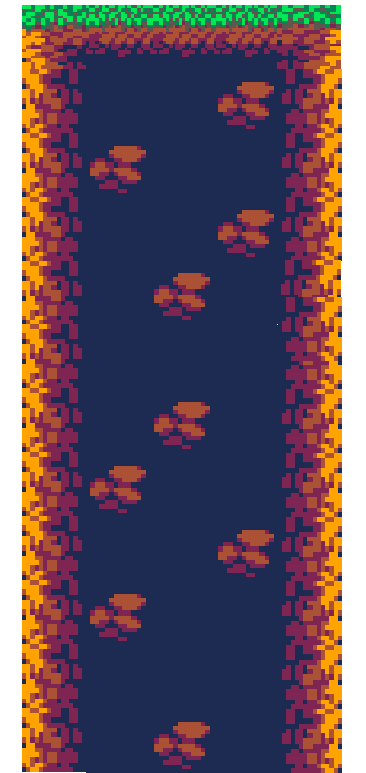
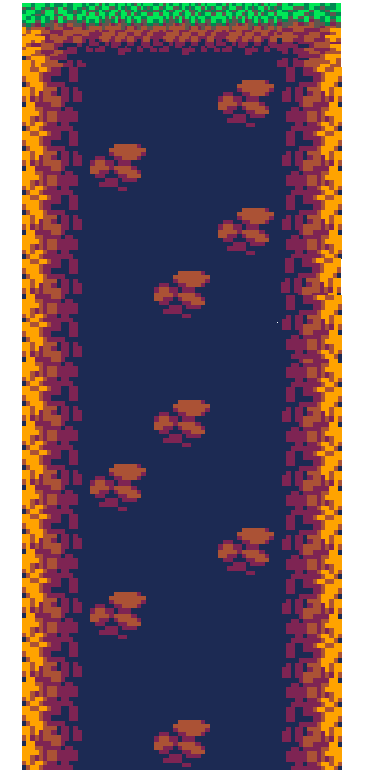
1st lvl desgin

diff --git a/src/main/java/de/gsso/sw_alpha/HelloController.java b/src/main/java/de/gsso/sw_alpha/HelloController.java
@@ -87,7 +87,7 @@ public class HelloController {
                 canvas.getScene().getRoot().setOnKeyPressed(new KeyPressEvent(spieler));
                 canvas.getScene().getRoot().setOnKeyReleased(new KeyReleaseEvent(spieler));
             }
-            spieler.getSpielerfig().setX(900);
+            spieler.getSpielerfig().setX(900); //Spawnposition
             spieler.getSpielerfig().setY(0);
             spieler.setStartPosX(960);
             spieler.setStartPosY(0);
@@ -99,7 +99,7 @@ public class HelloController {
             playerPane.setVisible(true);
             spieler.start();
 
-            grounds = new Ground[6];
+            grounds = new Ground[8];
             //grounds[0] = new Ground(canvas, "GrassRockHoz",1600,900);
             //grounds[1] = new Ground(canvas, "Lvl1_obst1",1300,700);
             //grounds[2] = new Ground(canvas, "Lvl1_obst1",1100,500);
@@ -107,13 +107,14 @@ public class HelloController {
             //grounds[4] = new Ground(canvas, "Lvl1_obst1",600,500);
             //grounds[5] = new Ground(canvas, "Lvl1_obst1",400,700);
 
-            grounds[0] = new Ground(canvas, "5x8", 1600,800);
-            grounds[1] = new Ground(canvas, "5x12", 1100,550);
-            grounds[2] = new Ground(canvas, "3x10", 500,600);
-            grounds[3] = new Ground(canvas, "3x10", 100, 770);
-            grounds[4] = new Ground(canvas, "8x9", -600, 550);
-            grounds[5] = new Ground(canvas, "5x12", -1200, 350);
-            grounds[6] = new Ground(canvas, "8x9", -1500, 100);
+            grounds[0] = new Ground(canvas, "5x8", 800,800);
+            grounds[1] = new Ground(canvas, "5x12", 300,550);
+            grounds[2] = new Ground(canvas, "3x10", -300,600);
+            grounds[3] = new Ground(canvas, "3x10", -700, 770);
+            grounds[4] = new Ground(canvas, "8x9", -1400, 550);
+            grounds[5] = new Ground(canvas, "5x12", -2000, 350);
+            grounds[6] = new Ground(canvas, "8x12", -3000, 250);
+            grounds[7] = new Ground(canvas, "5x8", -3800, 500);
             first = true;
         }
     }
